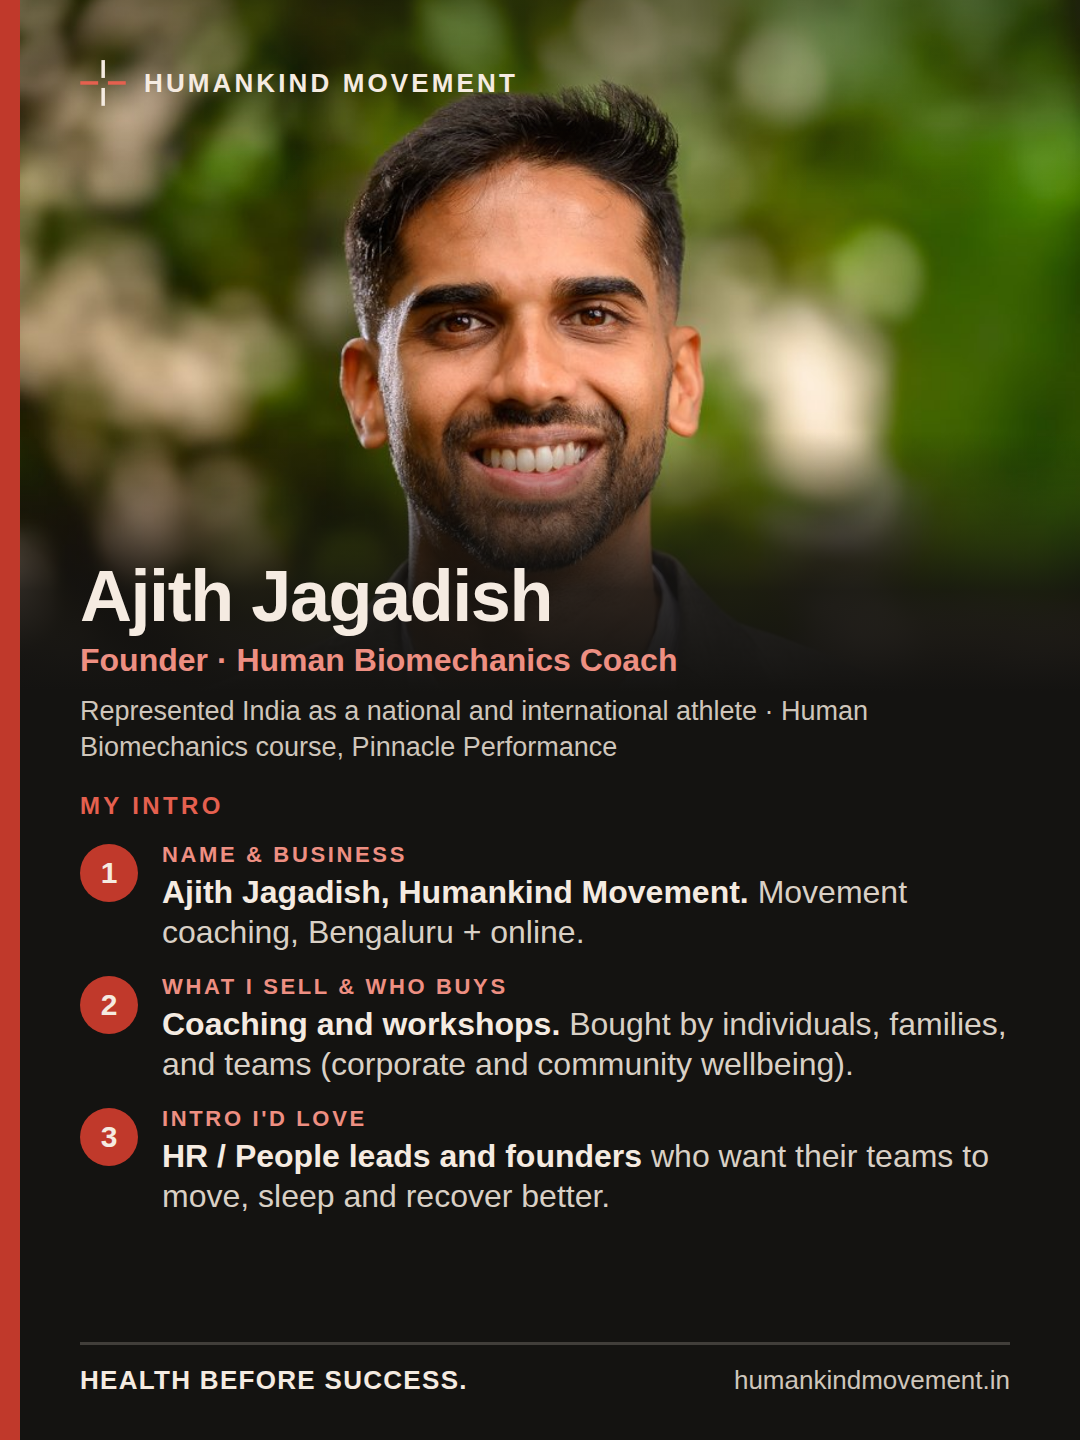
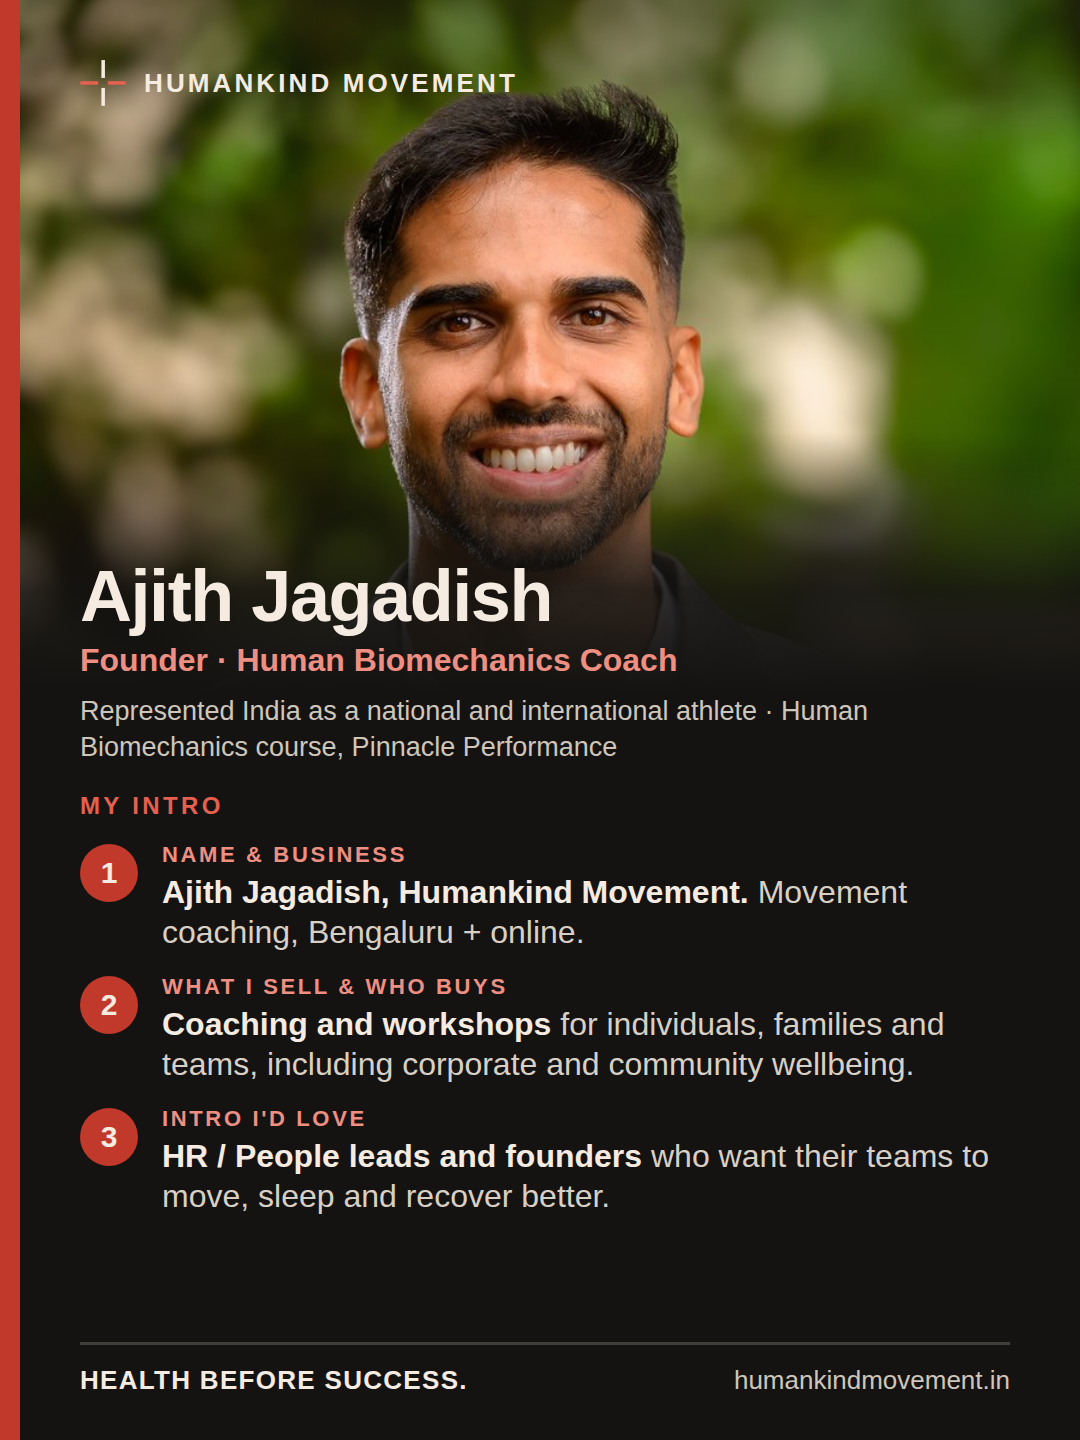
Reword 'who buys' line on SBC photo card
Claude-Session: https://claude.ai/code/session_01UB9htsoyY2nuxMtqcAaUbd

Changed region(s): [[0.1528, 0.6875, 0.9167, 0.75]]

diff --git a/drafts/sbc-networking/build_photo_intro.py b/drafts/sbc-networking/build_photo_intro.py
@@ -29,7 +29,7 @@ body{{width:1080px;height:{H}px;background:#141311;font-family:"Helvetica Neue",
 <div class="cred">Represented India as a national and international athlete &middot; Human Biomechanics course, Pinnacle Performance</div>
 <div class="sec">My intro</div>
 <div class="q"><div class="n">1</div><div><h3>Name &amp; business</h3><p>Ajith Jagadish, Humankind Movement. <span>Movement coaching, Bengaluru + online.</span></p></div></div>
-<div class="q"><div class="n">2</div><div><h3>What I sell &amp; who buys</h3><p>Coaching and workshops. <span>Bought by individuals, families, and teams (corporate and community wellbeing).</span></p></div></div>
+<div class="q"><div class="n">2</div><div><h3>What I sell &amp; who buys</h3><p>Coaching and workshops <span>for individuals, families and teams, including corporate and community wellbeing.</span></p></div></div>
 <div class="q"><div class="n">3</div><div><h3>Intro I'd love</h3><p>HR / People leads and founders <span>who want their teams to move, sleep and recover better.</span></p></div></div>
 </div>
 <div class="foot"><span><b>Health before success.</b></span><span>humankindmovement.in</span></div>
